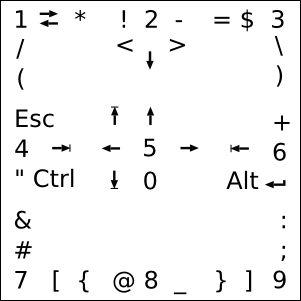
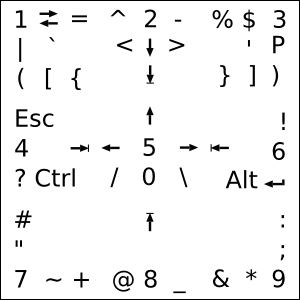
Update and complete special characters layout

diff --git a/src/qwo.c b/src/qwo.c
@@ -87,7 +87,7 @@ qwo comes with ABSOLUTELY NO WARRANTY. This is free software,\n\
 and you are welcome to redistribute it under certain conditions.\n";
 
 char charset[][MAX_REGIONS] = {
-		"a,z?>>>c",
+		"a,z?""?>>c",
 		"deb?????",
 		"gfihj???",
 		"??l>k???",
@@ -98,15 +98,16 @@ char charset[][MAX_REGIONS] = {
 };
 
 KeySym char_free[MAX_REGIONS][MAX_REGIONS] = {
-	{XK_KP_5, XK_Page_Up, XK_Up, 0xffff, XK_Right, 0xffff, XK_KP_0, XK_Page_Down, XK_Left},
-	{0xffff, XK_KP_1, XK_Tab, XK_KP_Multiply, 0xffff, 0xffff, 0xffff, XK_parenleft, XK_slash},
-	{XK_Down, XK_exclam, XK_KP_2, XK_minus, XK_greater, 0xffff, 0xffff, 0xffff, XK_less},
-	{0xffff, XK_equal, XK_dollar, XK_KP_3, XK_backslash, XK_parenright, 0xffff, 0xffff, 0xffff},
-	{XK_Home, 0xffff, 0xffff, XK_plus, XK_KP_6, XK_Return, XK_Alt_L, 0xffff, 0xffff},
-	{0xffff, 0xffff, 0xffff, XK_colon, XK_semicolon, XK_KP_9, XK_bracketright, XK_braceright, 0xffff},
+	{XK_KP_5, 0xffff, XK_Up, 0xffff, XK_Right, XK_backslash, XK_KP_0, XK_slash, XK_Left},
+	{XK_grave, XK_KP_1, XK_Tab, XK_equal, 0xffff, XK_braceleft, XK_bracketleft, XK_parenleft, XK_bar},
+	{XK_Down, XK_asciicircum, XK_KP_2, XK_minus, XK_greater, 0xffff, 0xffff, 0xffff, XK_less},
+	{XK_apostrophe, XK_percent, XK_dollar, XK_KP_3, XK_Insert, XK_parenright, XK_bracketright, XK_braceright, 0xffff},
+	{0xffff, 0xffff, 0xffff, XK_exclam, XK_KP_6, XK_Return, XK_Alt_L, 0xffff, XK_Home},
+	{0xffff, 0xffff, 0xffff, XK_colon, XK_semicolon, XK_KP_9, XK_asterisk, XK_ampersand, 0xffff},
 	{0xffff, 0xffff, 0xffff, 0xffff, 0xffff, XK_underscore, XK_KP_8, XK_at, 0xffff},
-	{0xffff, XK_ampersand, 0xffff, 0xffff, 0xffff, XK_Insert, XK_bracketleft, XK_KP_7, XK_numbersign},
-	{XK_End, XK_Escape, 0xffff, 0xffff, 0xffff, 0xffff, XK_Control_L, XK_Select, XK_KP_4}};
+	{0xffff, XK_numbersign, 0xffff, 0xffff, 0xffff, XK_plus, XK_asciitilde, XK_KP_7, XK_quotedbl},
+	{0xffff, XK_Escape, 0xffff, 0xffff, XK_End, 0xffff, XK_Control_L, XK_Select, XK_KP_4}
+};
 
 static KeyCode Shift_code, Control_code, Alt_code;
 
